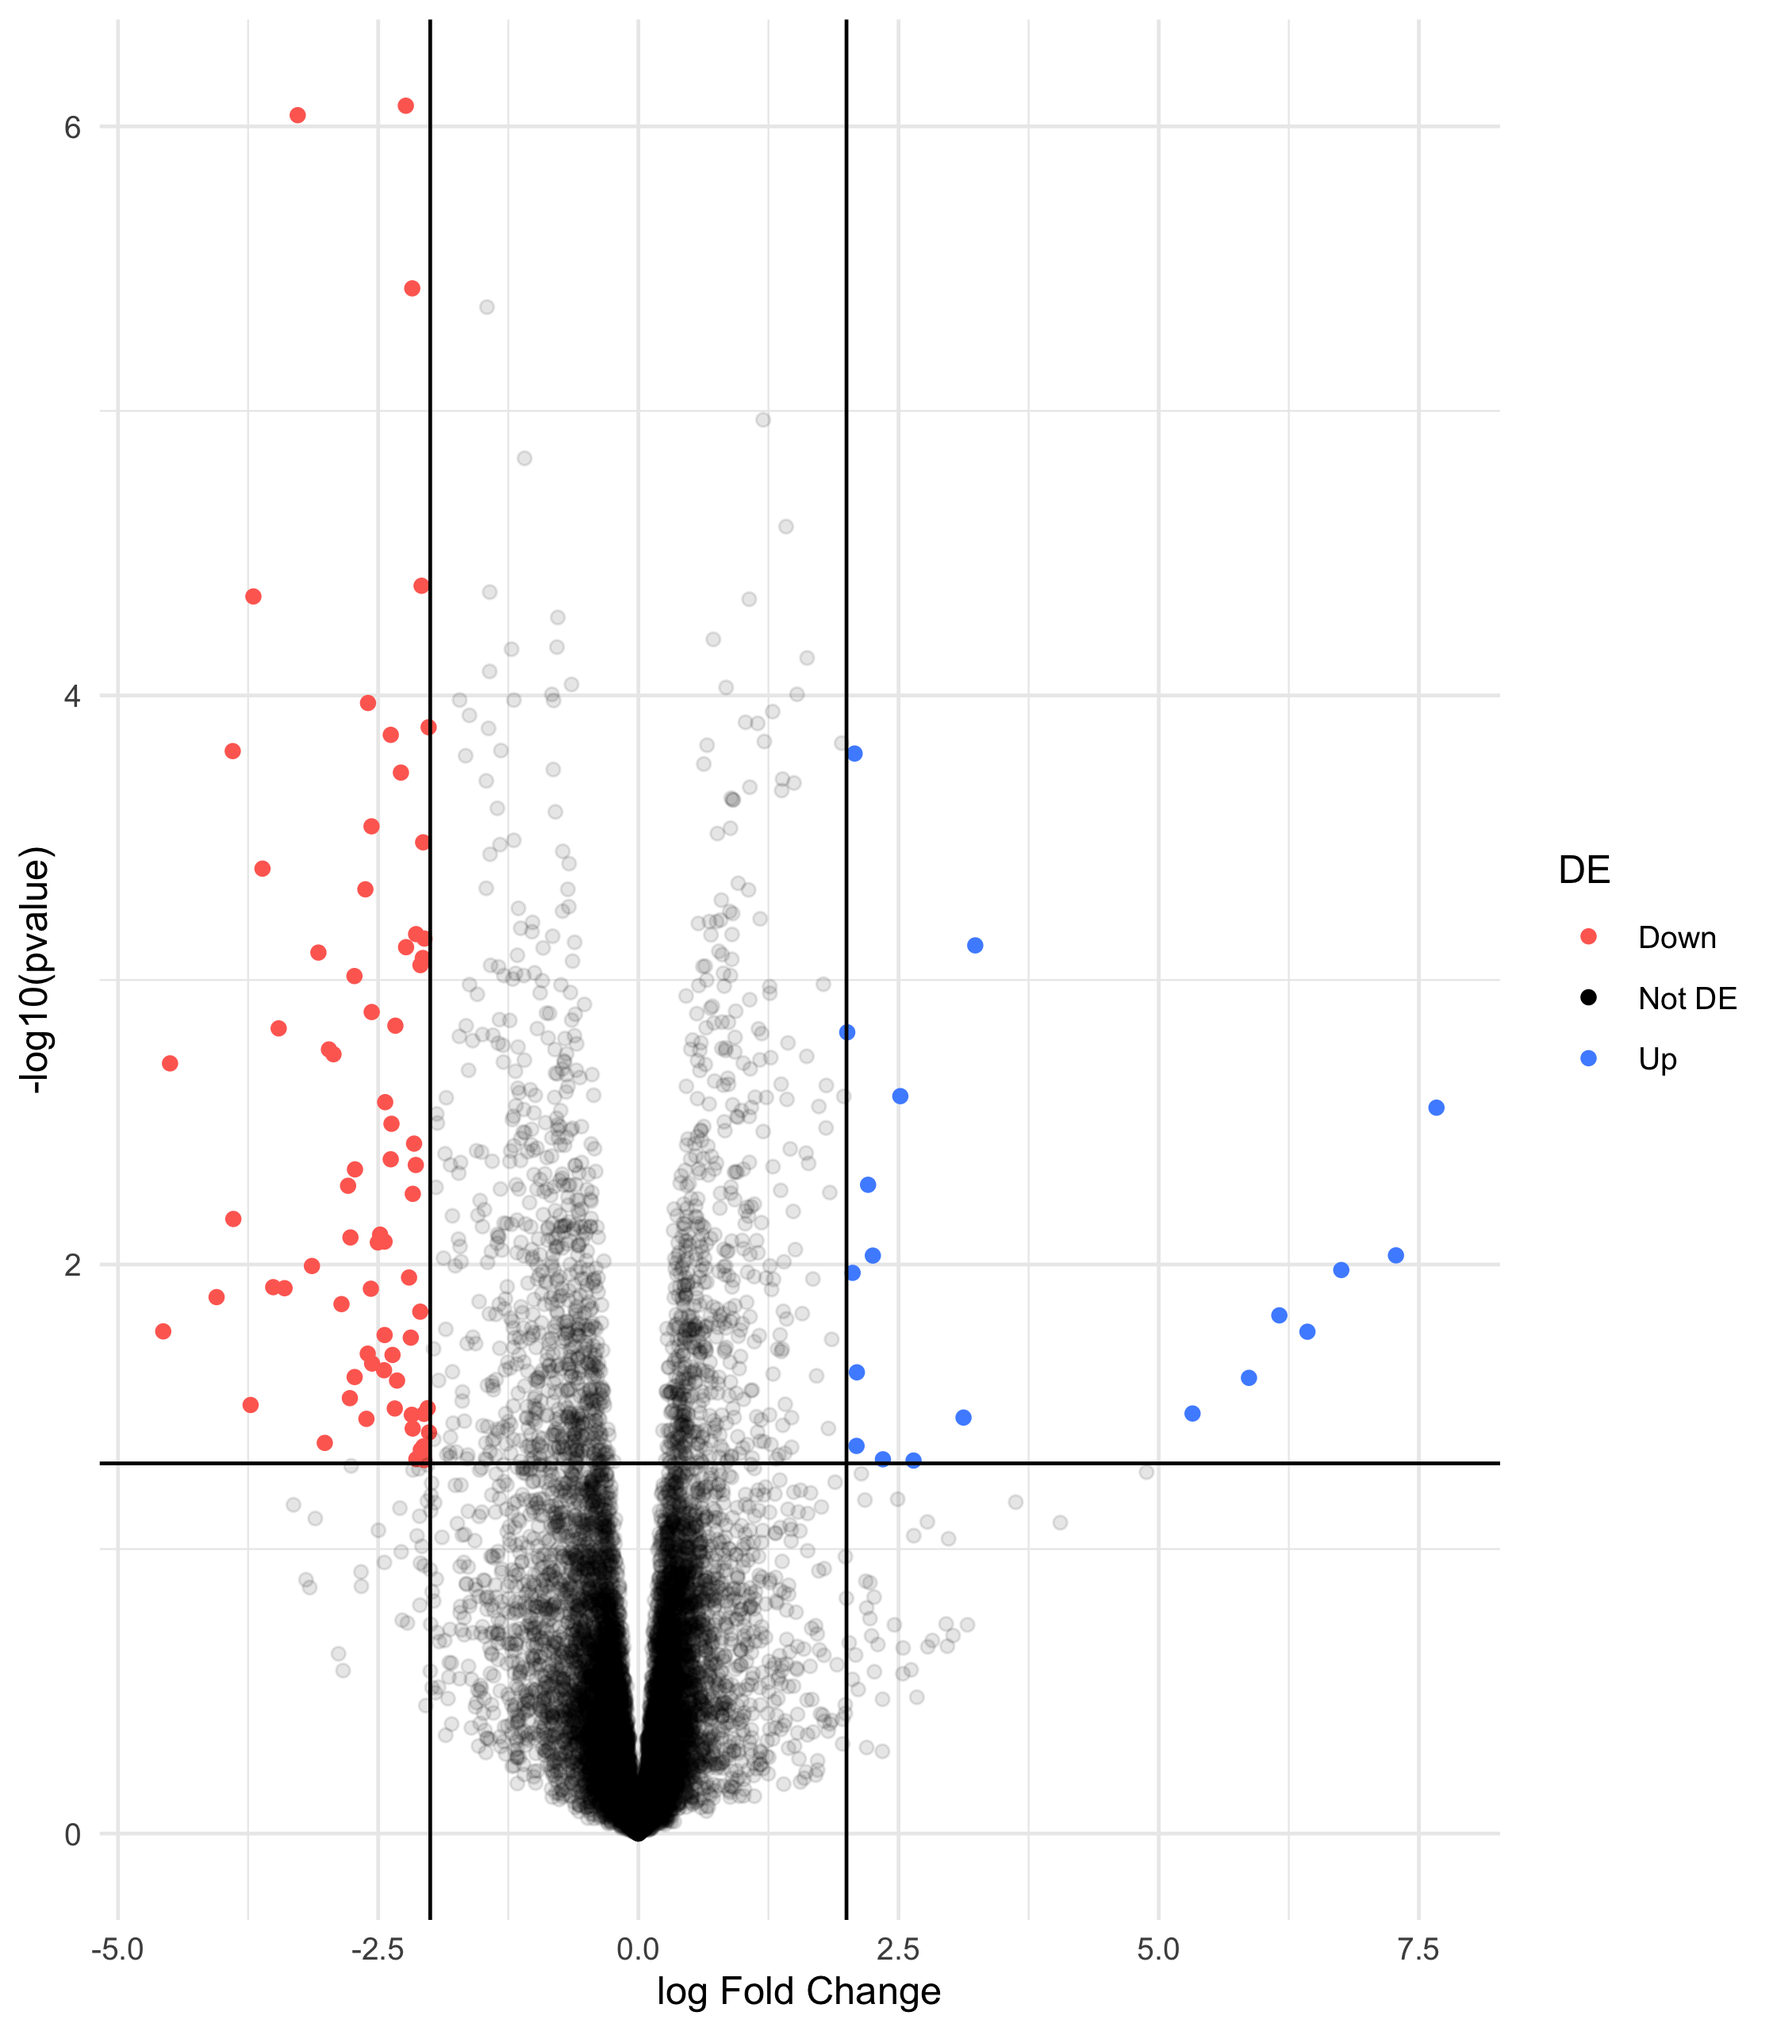
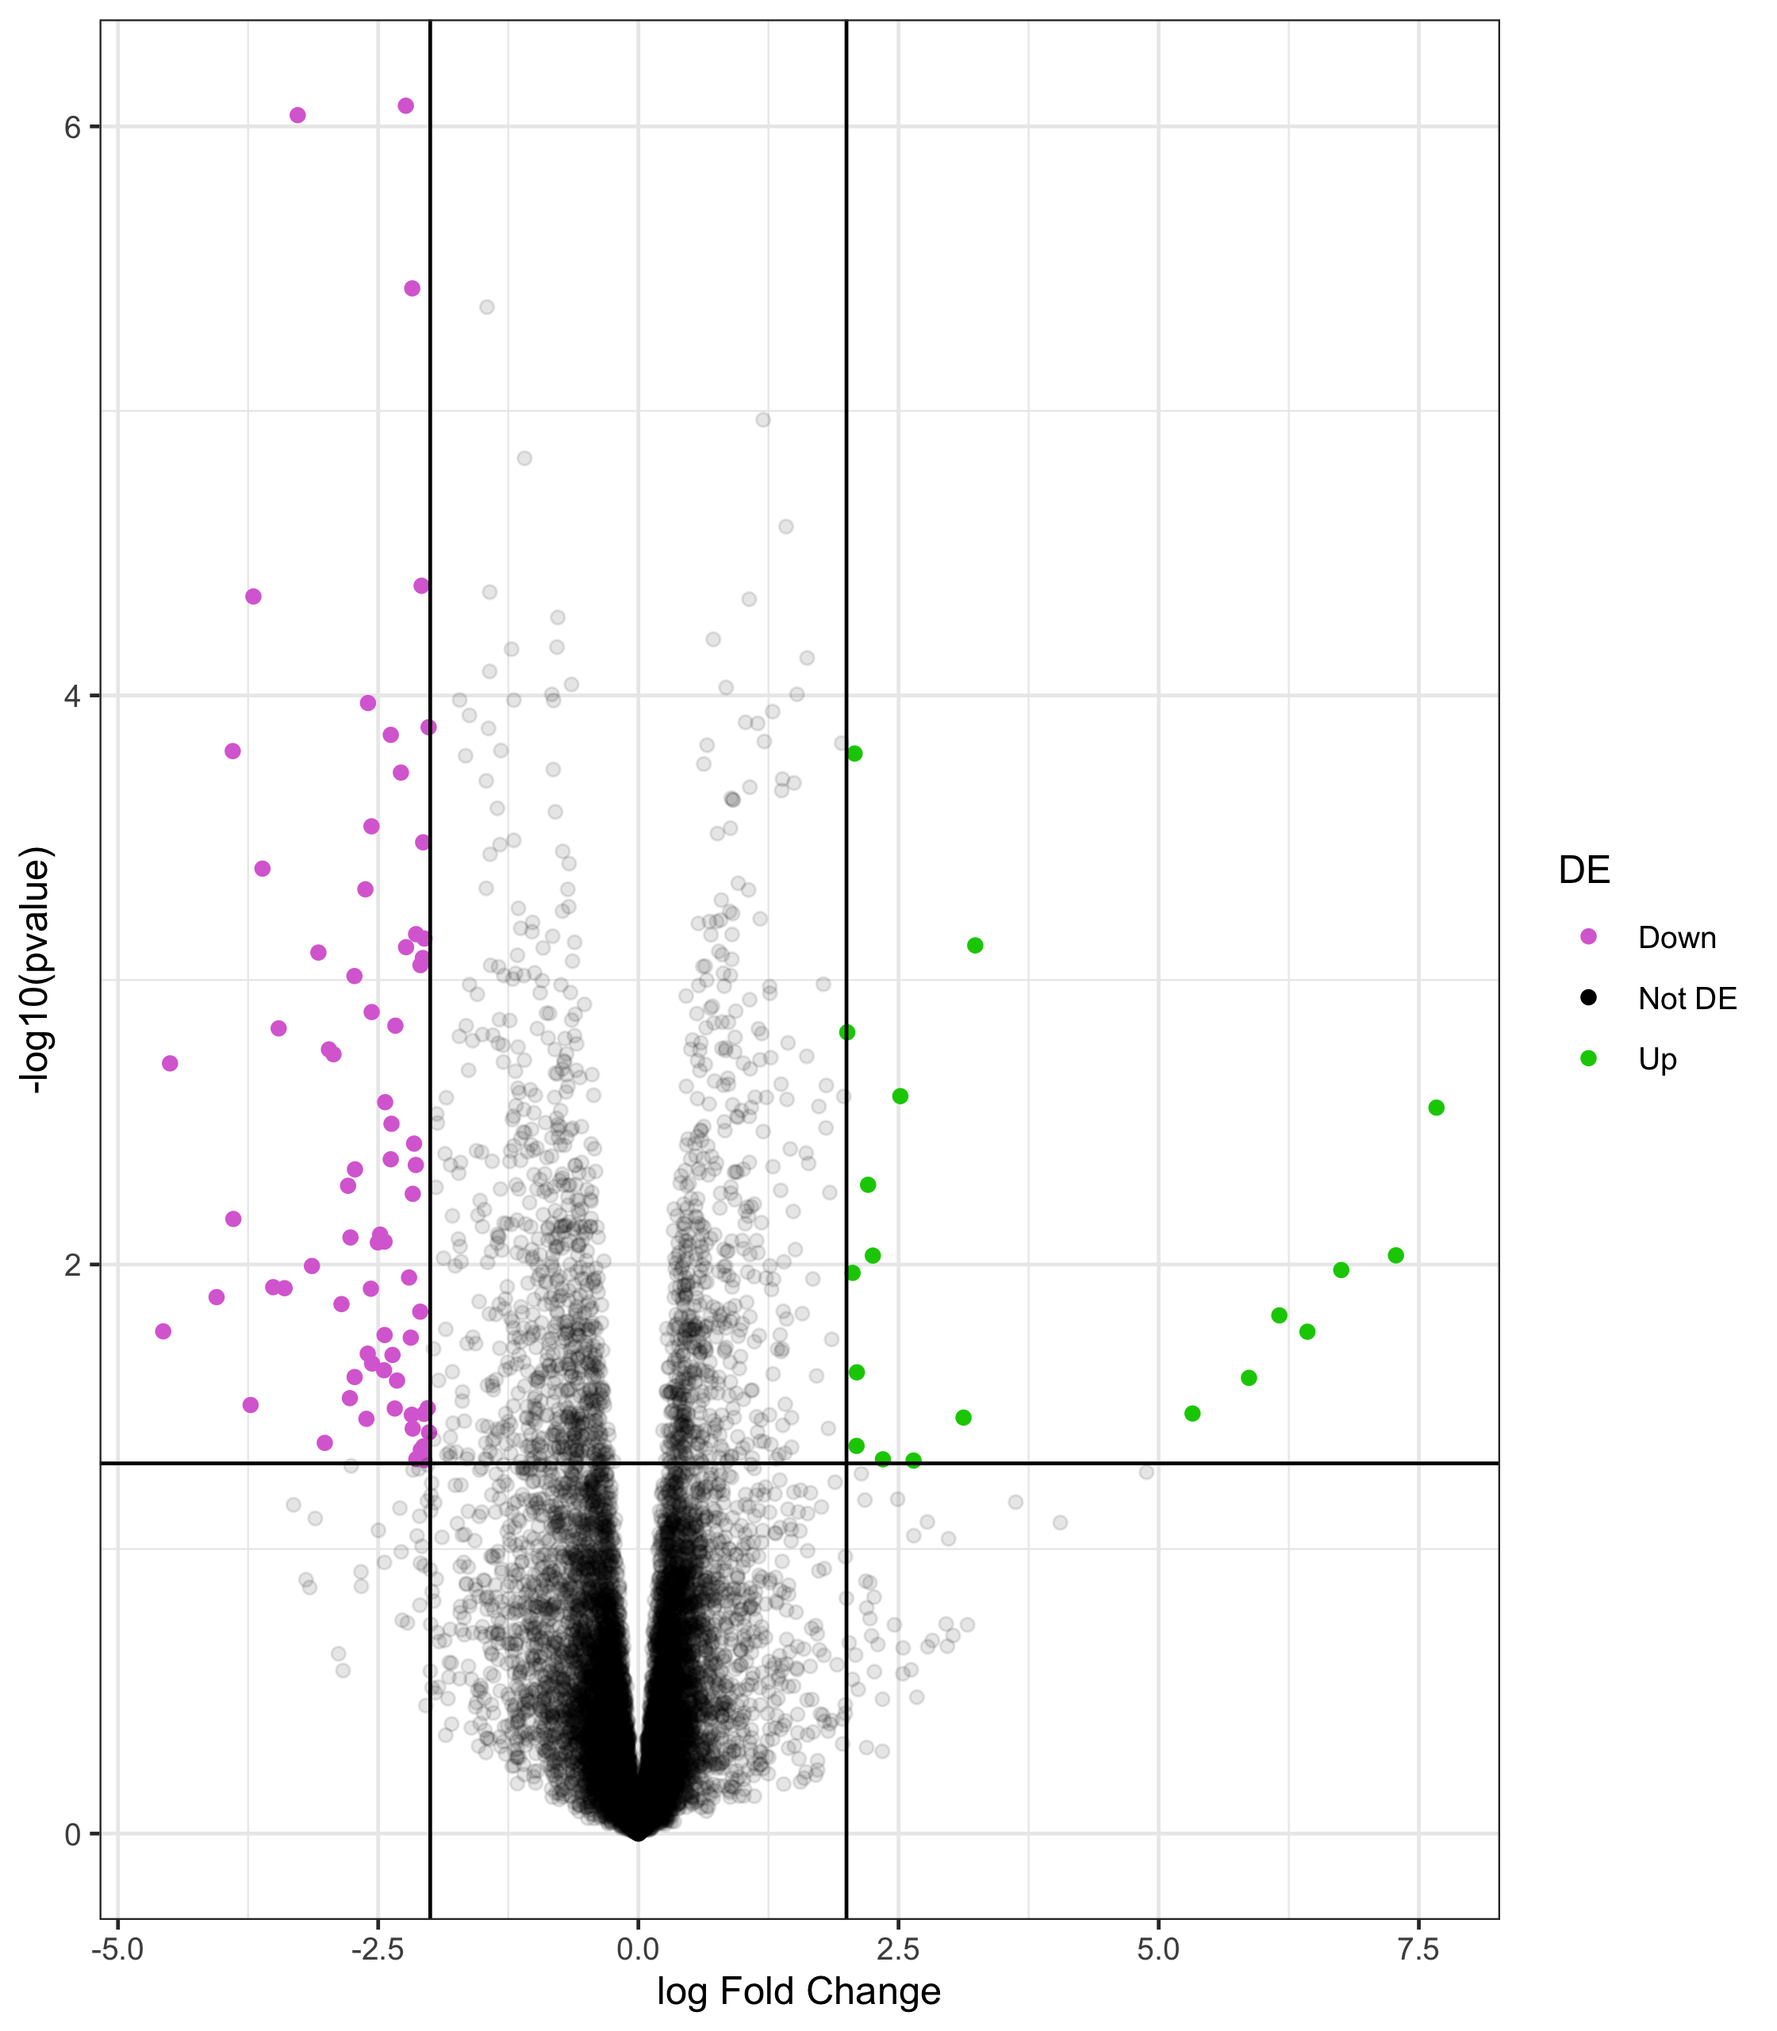
update volcano plot

Changed region(s): [[0.1875, 0.5625, 0.25, 0.7188], [0.2188, 0.4375, 0.25, 0.4688], [0.1875, 0.4688, 0.2188, 0.5]]

diff --git a/README.md b/README.md
@@ -131,7 +131,9 @@ changes to the plot.
 ``` r
 tidy.marray.lm(res) %>%
   volcano_plot() + 
-  theme_minimal()
+  scale_color_manual(values = c("#DA70D6", "black", "#00CC00"))
+#> Scale for 'colour' is already present. Adding another scale for 'colour',
+#> which will replace the existing scale.
 ```
 
 <img src="man/figures/README-unnamed-chunk-6-1.png" width="100%" />
